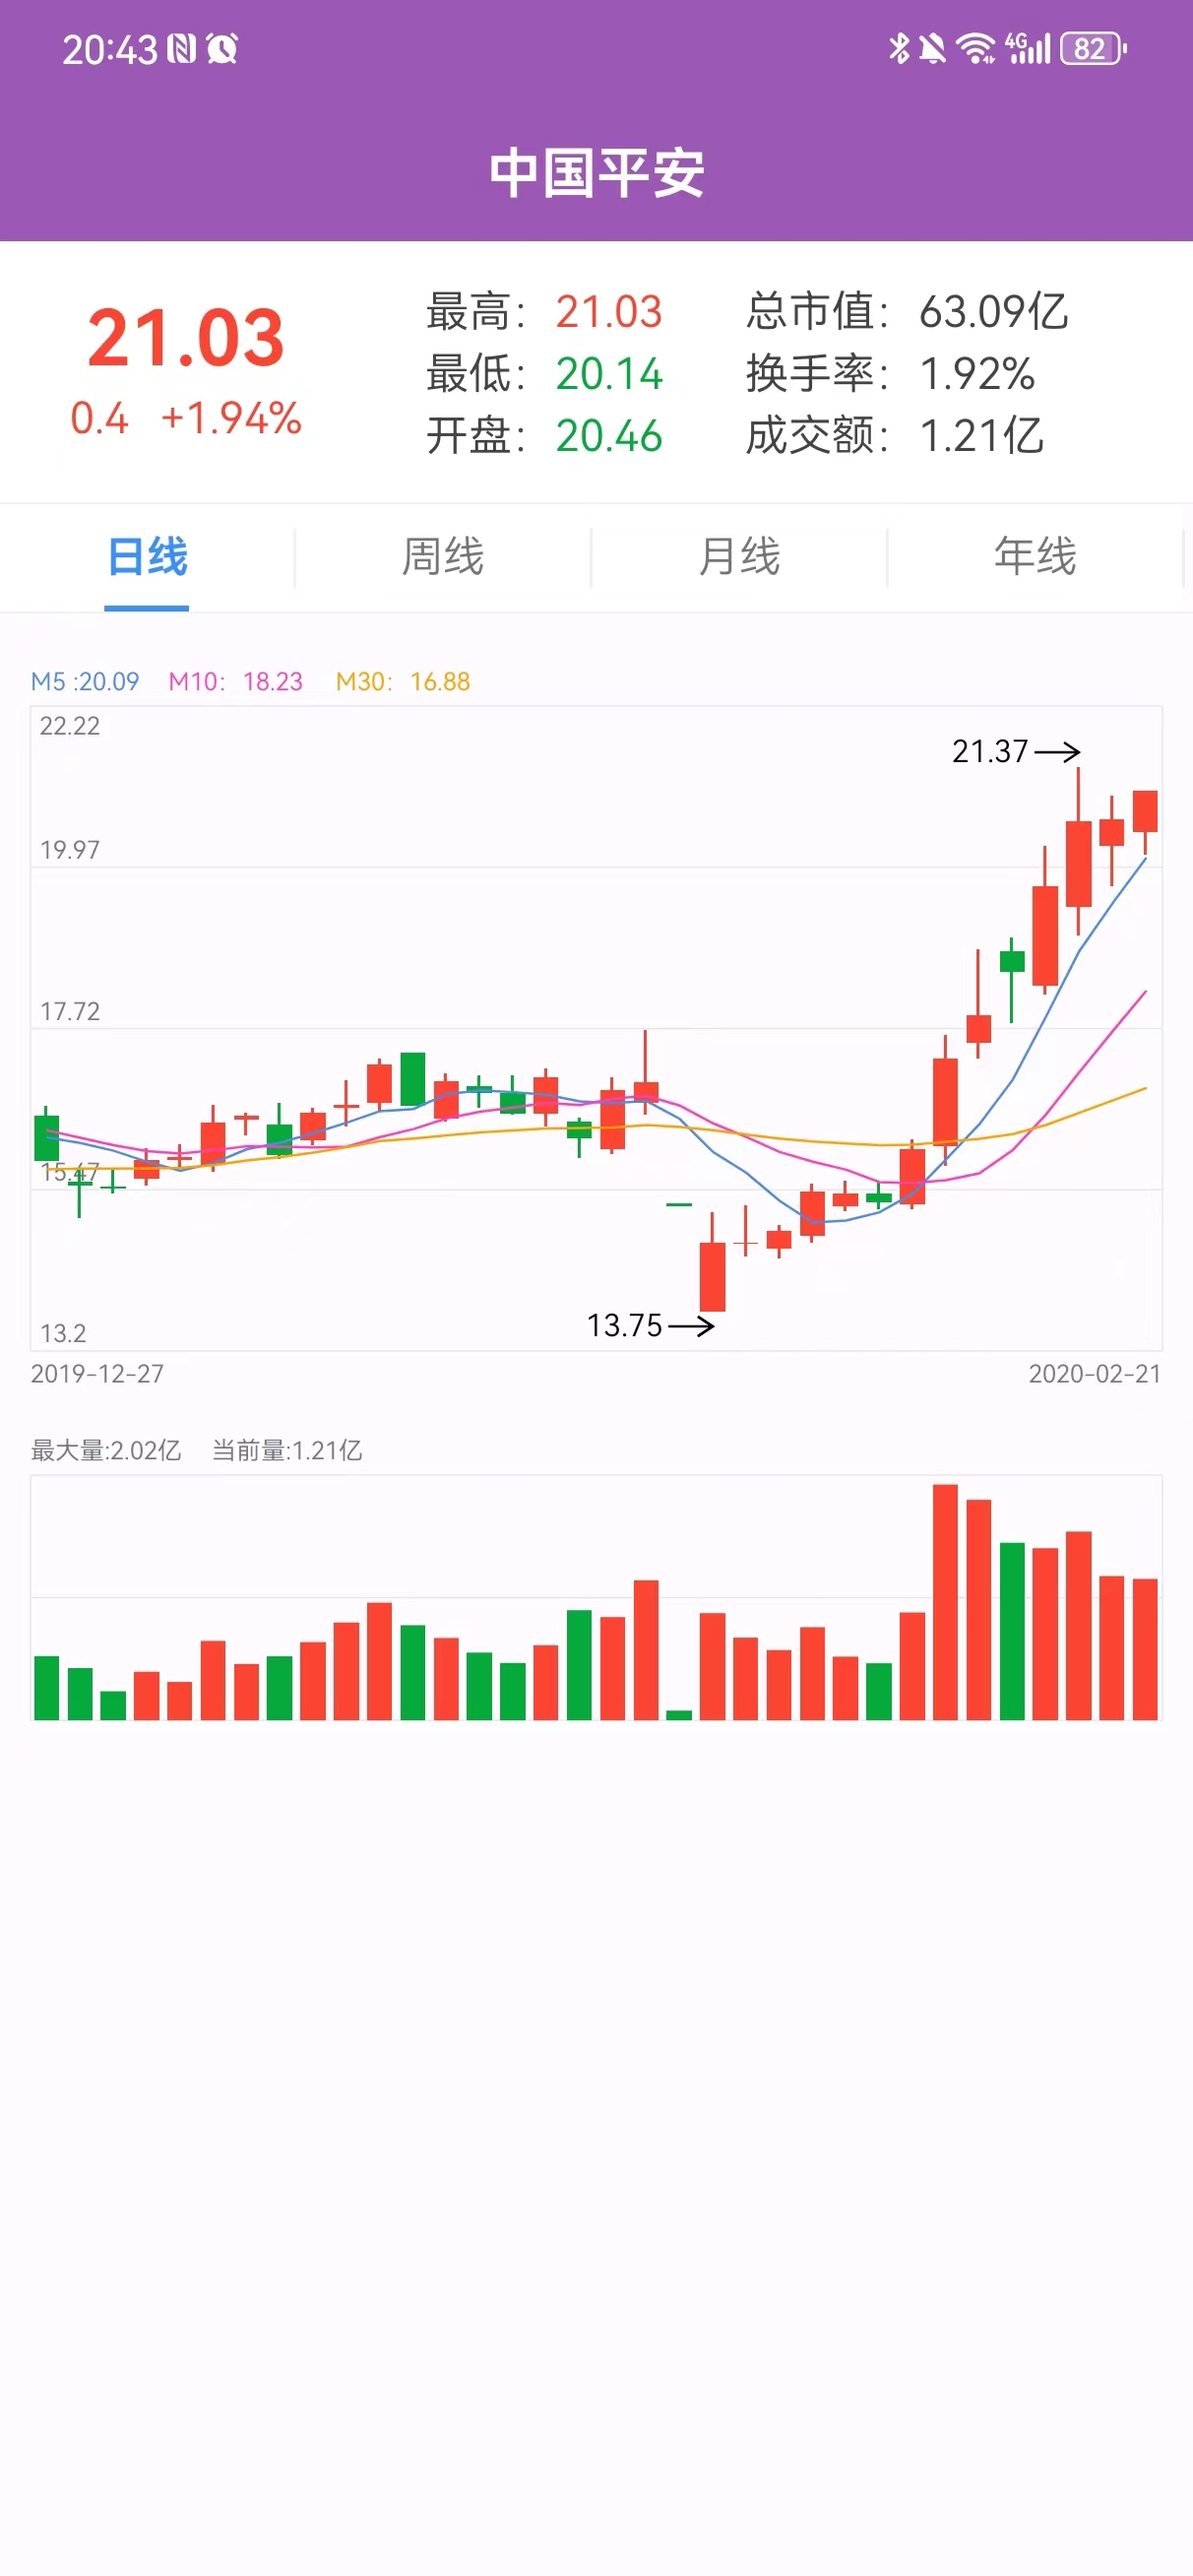
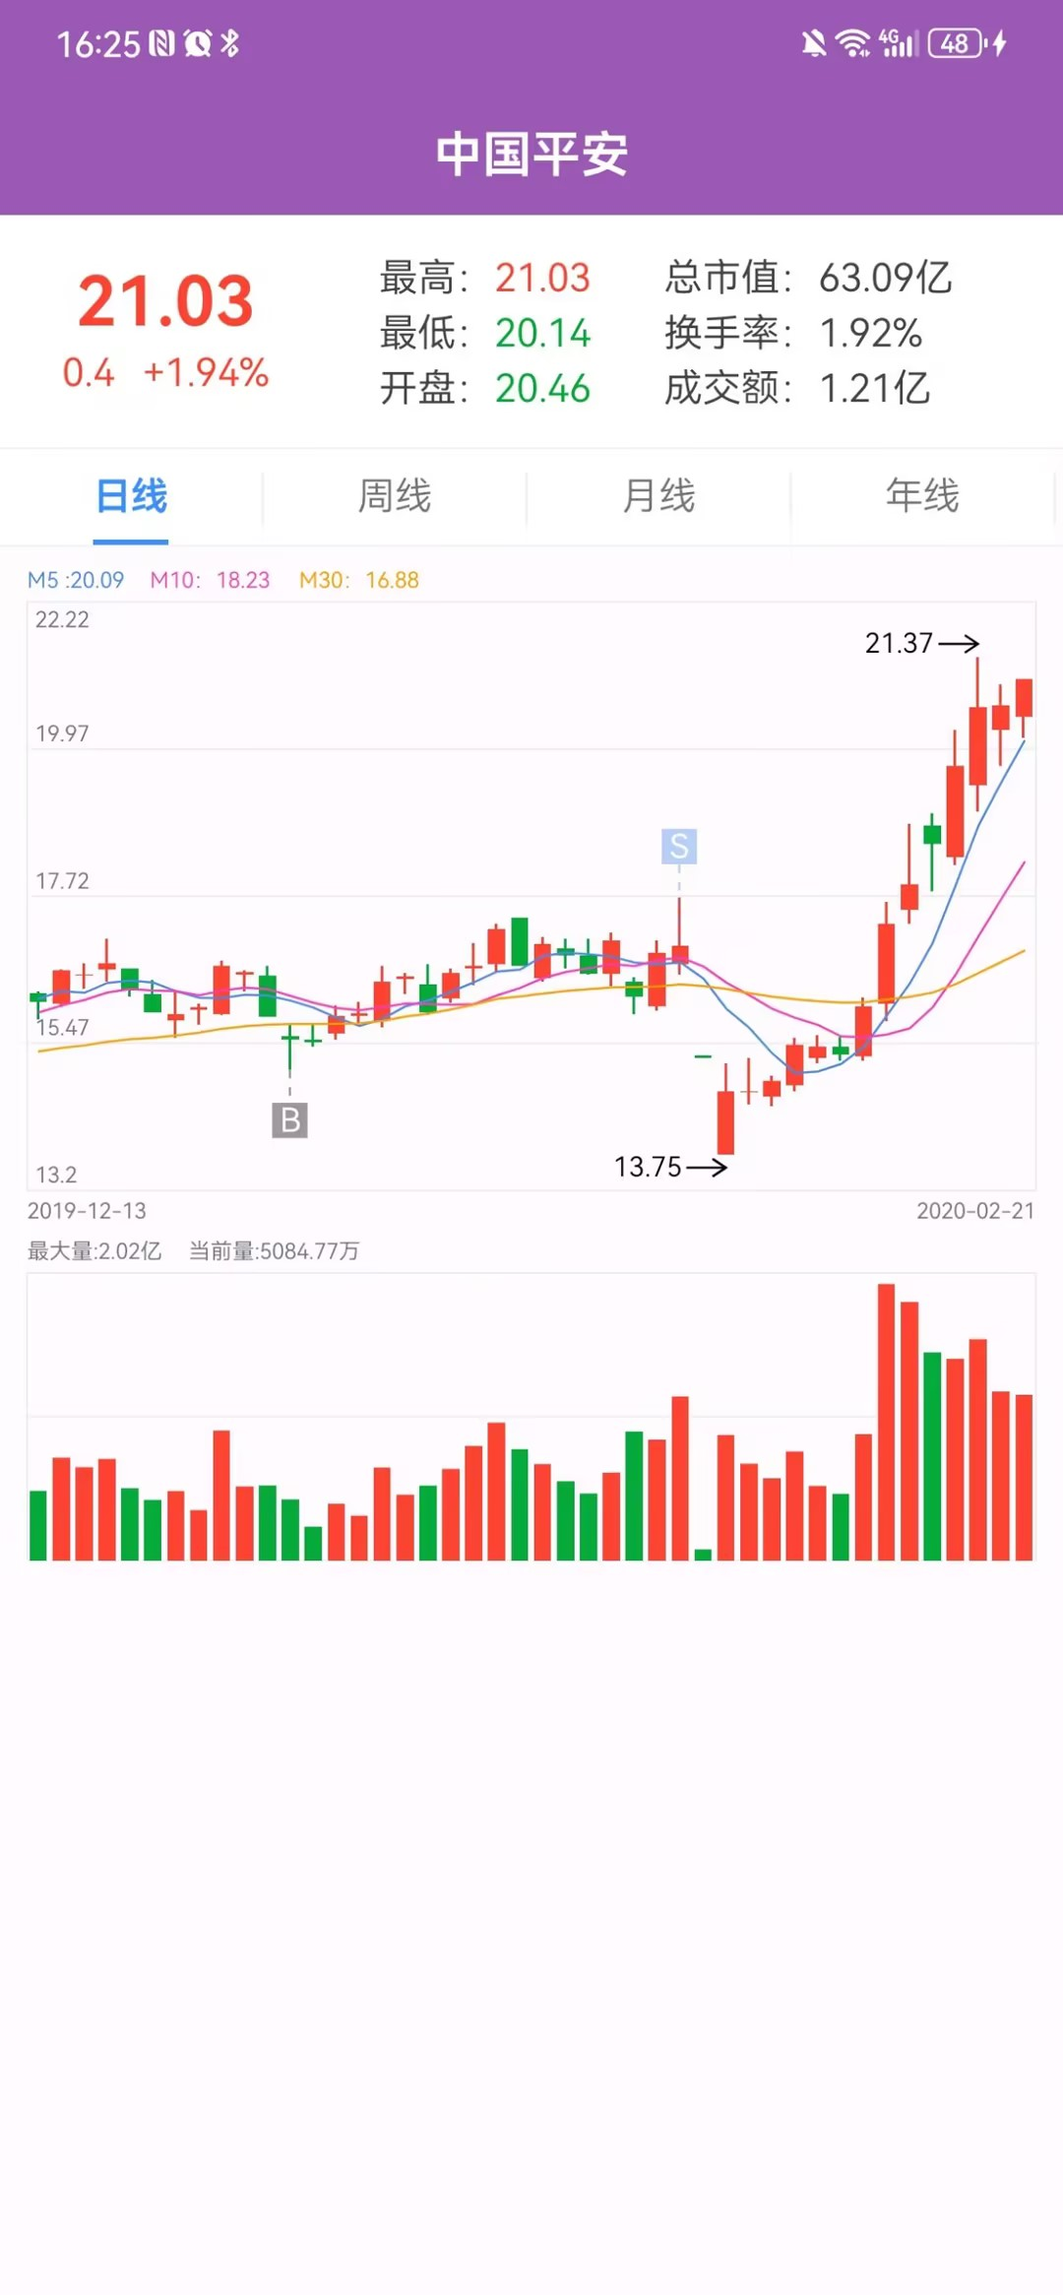
新增买卖点指示，新增最高价最低价箭头指示

diff --git a/klineLibrary/src/main/java/com/funny/klinelibrary/widget/KLineView.kt b/klineLibrary/src/main/java/com/funny/klinelibrary/widget/KLineView.kt
@@ -10,6 +10,7 @@ import android.util.AttributeSet
 import com.funny.klinelibrary.R
 import com.funny.klinelibrary.entity.ExtremeValue
 import com.funny.klinelibrary.entity.KLineDrawItem
+import com.funny.klinelibrary.helper.KLineDataHelper
 import com.funny.klinelibrary.utils.DateUtils
 import com.funny.klinelibrary.utils.DisplayUtils
 import com.funny.klinelibrary.utils.NumFormatUtils
@@ -65,6 +66,7 @@ class KLineView(context: Context?, attrs: AttributeSet?) : BaseChartView(context
                     }
                 }
                 drawArrow(i, drawItem)//绘制最高价最低价箭头
+                drawBuySalePoint(i, drawItem)//绘制买卖点
             }
 
             //绘制价格均线
@@ -83,6 +85,63 @@ class KLineView(context: Context?, attrs: AttributeSet?) : BaseChartView(context
             drawExtremeDate()//绘制两边K线日期
             drawCrossLine()//绘制十字线和悬浮框
             invalidate()//刷新
+        }
+    }
+
+    /**
+     * 绘制买卖点
+     */
+    private fun drawBuySalePoint(i: Int, drawItem: KLineDrawItem) {
+        if (drawItem.isBuy) {
+            //绘制在K线下方
+            mCanvas.drawLine(
+                drawItem.shadowRect.centerX(),
+                drawItem.shadowRect.bottom,
+                drawItem.shadowRect.centerX(),
+                drawItem.shadowRect.bottom + DisplayUtils.dip2px(context, 12.0f),
+                PaintUtils.DOT_LINE_PAINT_BUY
+            )
+
+            val rectWidth = mRectF.width() / KLineDataHelper.MIN_COLUMNS * 0.7f
+            val rectf = RectF(
+                drawItem.shadowRect.centerX() - rectWidth / 2,
+                drawItem.shadowRect.bottom + DisplayUtils.dip2px(context, 12.0f),
+                drawItem.shadowRect.centerX() + rectWidth / 2,
+                drawItem.shadowRect.bottom + rectWidth + DisplayUtils.dip2px(context, 12.0f)
+            )
+            mCanvas.drawRect(rectf, PaintUtils.DOT_LINE_PAINT_BUY)
+
+            mCanvas.drawText(
+                "B",
+                drawItem.shadowRect.centerX() - PaintUtils.TEXT_POP_PAINT.measureText("B") / 2,
+                rectf.centerY() + DisplayUtils.dip2px(context, 4.0f),
+                PaintUtils.TEXT_POP_PAINT
+            )
+        }
+        if (drawItem.isSale) {
+            //绘制在K线上方
+            mCanvas.drawLine(
+                drawItem.shadowRect.centerX(),
+                drawItem.shadowRect.top - DisplayUtils.dip2px(context, 12.0f),
+                drawItem.shadowRect.centerX(),
+                drawItem.shadowRect.bottom,
+                PaintUtils.DOT_LINE_PAINT_SALE
+            )
+            val rectWidth = mRectF.width() / KLineDataHelper.MIN_COLUMNS * 0.7f
+            val rectf = RectF(
+                drawItem.shadowRect.centerX() - rectWidth / 2,
+                drawItem.shadowRect.top - DisplayUtils.dip2px(context, 12.0f) - rectWidth,
+                drawItem.shadowRect.centerX() + rectWidth / 2,
+                drawItem.shadowRect.top - DisplayUtils.dip2px(context, 12.0f)
+            )
+            mCanvas.drawRect(rectf, PaintUtils.DOT_LINE_PAINT_SALE)
+
+            mCanvas.drawText(
+                "S",
+                drawItem.shadowRect.centerX() - PaintUtils.TEXT_POP_PAINT.measureText("S") / 2,
+                rectf.centerY() + DisplayUtils.dip2px(context, 4.0f),
+                PaintUtils.TEXT_POP_PAINT
+            )
         }
     }
 

diff --git a/klineLibrary/src/main/java/com/funny/klinelibrary/helper/KLineDataHelper.kt b/klineLibrary/src/main/java/com/funny/klinelibrary/helper/KLineDataHelper.kt
@@ -6,6 +6,7 @@ import com.funny.klinelibrary.entity.ExtremeValue
 import com.funny.klinelibrary.entity.KLineDrawItem
 import com.funny.klinelibrary.entity.KLineItem
 import com.funny.klinelibrary.inter.IChartDataCountListener
+import com.funny.klinelibrary.utils.DateUtils
 import com.funny.klinelibrary.utils.NumFormatUtils
 import com.funny.klinelibrary.widget.KLineView
 import com.funny.klinelibrary.widget.VolumeView
@@ -40,7 +41,6 @@ class KLineDataHelper(private var mReadyListener: IChartDataCountListener<Mutabl
          * 给极值增加一定放大倍数比例，防止绘制到最高最低点
          */
         const val EXTREME_SCALE: Float = 0.04f
-
 
     }
 
@@ -136,6 +136,8 @@ class KLineDataHelper(private var mReadyListener: IChartDataCountListener<Mutabl
             drawItem.low = low
             drawItem.volume = kLineItem.volume
             drawItem.day = kLineItem.day
+            drawItem.isBuy = (DateUtils.getYMD(drawItem.day) == "2019-12-30")//设置虚拟买入点
+            drawItem.isSale = (DateUtils.getYMD(drawItem.day) == "2020-01-23")//设置虚拟买入点
 
             // 计算蜡烛线
             val openYRate = (extremeValue.mKMaxPrice - open) / diffPrice

diff --git a/klineLibrary/src/main/java/com/funny/klinelibrary/entity/KLineDrawItem.kt b/klineLibrary/src/main/java/com/funny/klinelibrary/entity/KLineDrawItem.kt
@@ -2,6 +2,7 @@ package com.funny.klinelibrary.entity
 
 import android.graphics.PointF
 import android.graphics.RectF
+import com.funny.klinelibrary.utils.DateUtils
 import java.io.Serializable
 
 class KLineDrawItem : Serializable {
@@ -115,6 +116,16 @@ class KLineDrawItem : Serializable {
      * 成交额
      */
     lateinit var volumeExtra: String
+
+    /**
+     * 当天是否有买入
+     */
+    var isBuy: Boolean = false
+
+    /**
+     * 当天是否有卖出
+     */
+    var isSale: Boolean = false
 
     /**
      * 总股本

diff --git a/klineLibrary/src/main/java/com/funny/klinelibrary/widget/KLineViewGroup.kt b/klineLibrary/src/main/java/com/funny/klinelibrary/widget/KLineViewGroup.kt
@@ -58,7 +58,6 @@ class KLineViewGroup(context: Context?, attrs: AttributeSet?) : LinearLayout(con
             dispatchDrawData()
             mKLineActionListener?.onFocusData(getLastDrawItem())
         }
-
     }
 
     companion object {

diff --git a/klineLibrary/src/main/java/com/funny/klinelibrary/utils/PaintUtils.java b/klineLibrary/src/main/java/com/funny/klinelibrary/utils/PaintUtils.java
@@ -127,8 +127,32 @@ public class PaintUtils {
      */
     public static Paint DOT_LINE_PAINT = new Paint();
 
+    /**
+     * 买点
+     */
+    public static Paint DOT_LINE_PAINT_BUY = new Paint();
+
+    /**
+     * 卖点
+     */
+    public static Paint DOT_LINE_PAINT_SALE = new Paint();
+
 
     static {
+
+        DOT_LINE_PAINT_BUY.setColor(COLOR_BLACK);
+        DOT_LINE_PAINT_BUY.setStyle(Paint.Style.FILL);
+        DOT_LINE_PAINT_BUY.setStrokeWidth(2.5f);
+        DOT_LINE_PAINT_BUY.setAntiAlias(true);
+        DOT_LINE_PAINT_BUY.setAlpha(100);
+        DOT_LINE_PAINT_BUY.setPathEffect(new DashPathEffect(new float[]{10f, 10f}, 0f)); // 设置虚线样式
+
+        DOT_LINE_PAINT_SALE.setColor(C_LINE_DIF);
+        DOT_LINE_PAINT_SALE.setStyle(Paint.Style.FILL);
+        DOT_LINE_PAINT_SALE.setStrokeWidth(2.5f);
+        DOT_LINE_PAINT_SALE.setAntiAlias(true);
+        DOT_LINE_PAINT_SALE.setAlpha(100);
+        DOT_LINE_PAINT_SALE.setPathEffect(new DashPathEffect(new float[]{10f, 10f}, 0f)); // 设置虚线样式
 
         DOT_LINE_PAINT.setColor(COLOR_BLACK);
         DOT_LINE_PAINT.setStyle(Paint.Style.STROKE);
